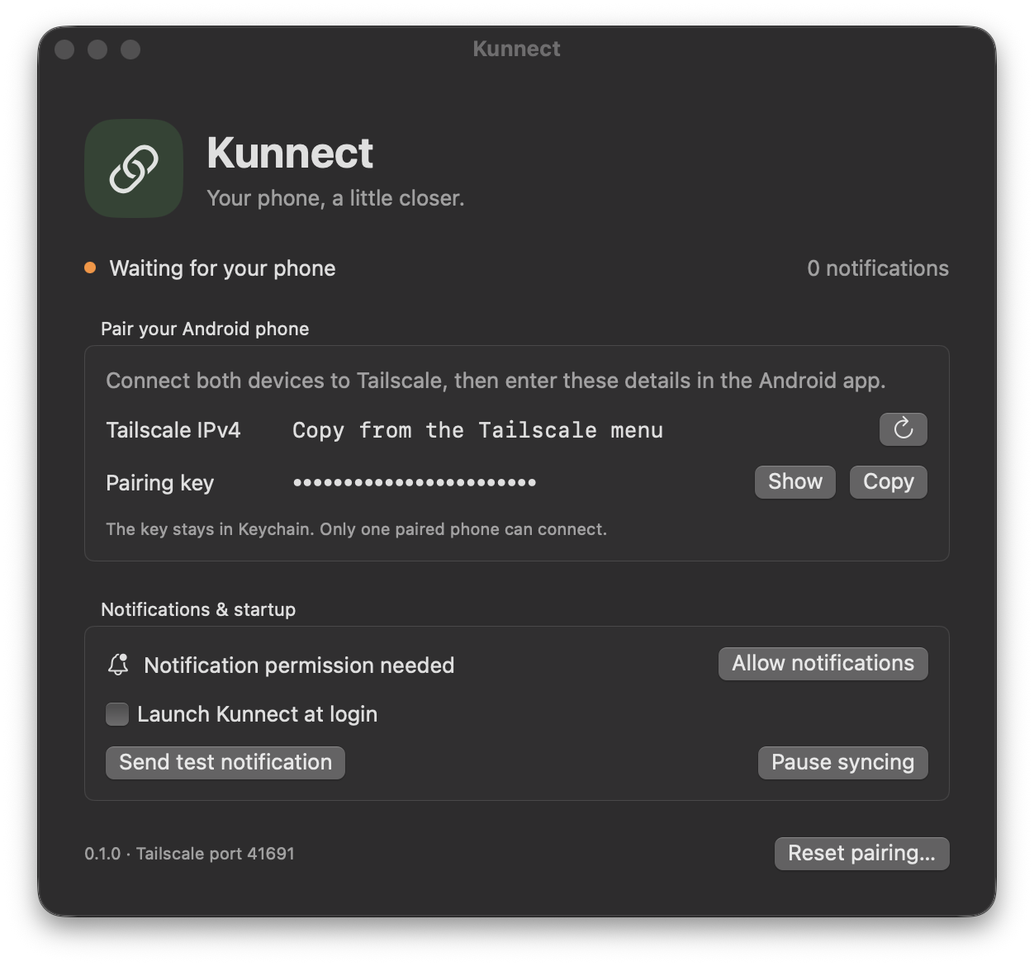
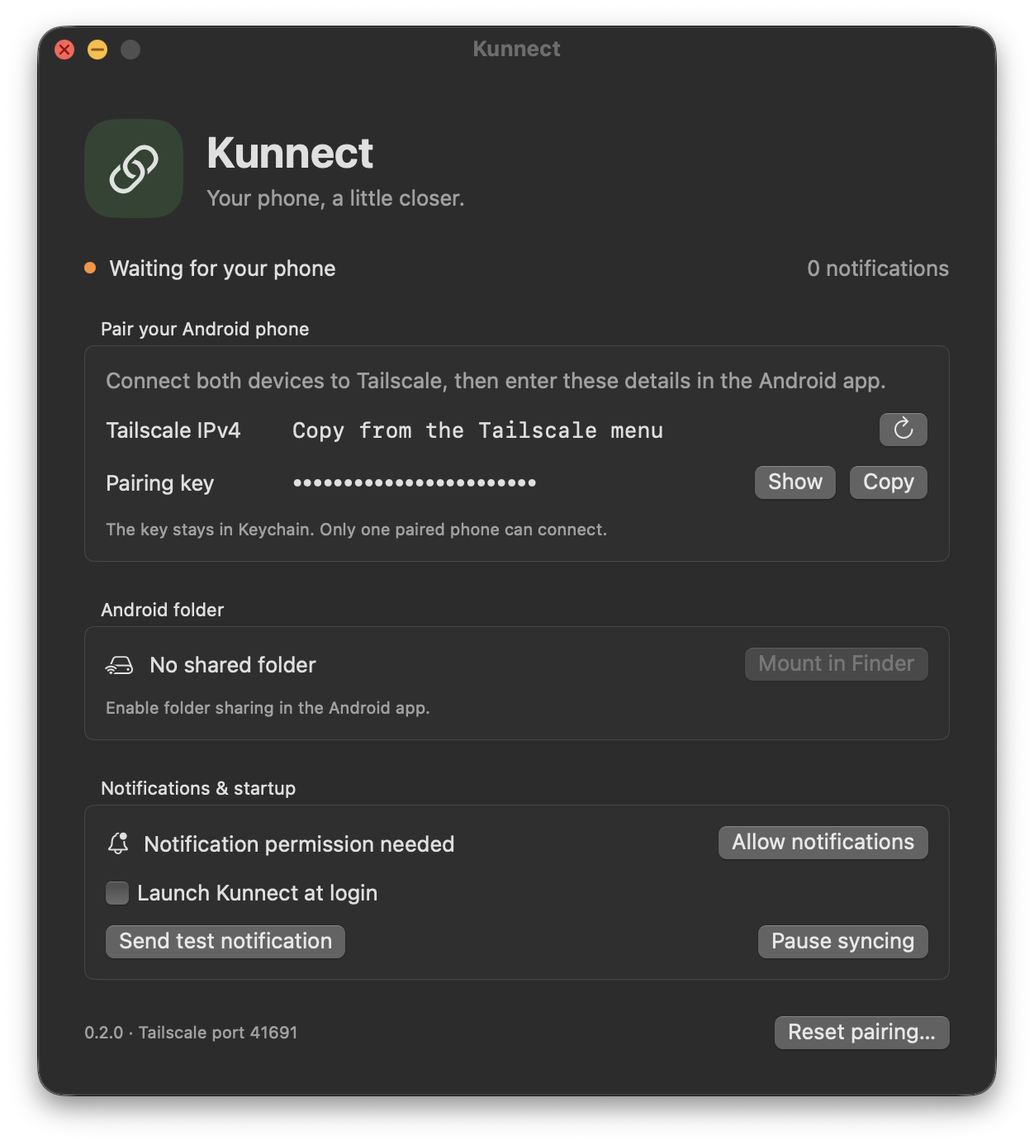
Negotiate folder support for compatible upgrades and document scoped volumes

diff --git a/android/app/src/androidTest/java/dev/kunnect/BridgeIntegrationTest.kt b/android/app/src/androidTest/java/dev/kunnect/BridgeIntegrationTest.kt
@@ -45,7 +45,8 @@ class BridgeIntegrationTest {
                 var connection = server.accept().apply { soTimeout = 15000 }
                 var reader = connection.getInputStream().bufferedReader(); var writer = connection.getOutputStream().bufferedWriter()
                 val hello = readUntil(reader, "hello"); assertEquals(key, hello.getString("token")); assertEquals(1, hello.getInt("version"))
-                send(writer, JSONObject().put("type", "ready"))
+                send(writer, JSONObject().put("type", "ready").put("features", org.json.JSONArray().put("fileShare")))
+                assertFalse(readUntil(reader, "fileShare").getBoolean("enabled"))
                 readUntil(reader, "snapshot")
                 fixture("First message")
                 var event = readUntil(reader, "delta") { it.getJSONArray("items").length() > 0 }
@@ -92,6 +93,27 @@ class BridgeIntegrationTest {
             context.stopService(Intent(context, ConnectionService::class.java)); fixture(cancel = true)
             prefs.host = oldHost; prefs.token = oldToken; prefs.enabledApps = oldApps; prefs.hideContent = false; prefs.localOnlyApps = emptySet()
         }
+    }
+    @Test fun notificationSyncStillWorksWithOlderMacHandshake() {
+        instrumentation.startActivitySync(Intent(context, MainActivity::class.java).addFlags(Intent.FLAG_ACTIVITY_NEW_TASK))
+        waitUntil { BridgeState.listener != null }
+        val prefs = Preferences(context)
+        val oldHost = prefs.host; val oldToken = prefs.token
+        prefs.host = "127.0.0.1"; prefs.token = "e".repeat(64)
+        try {
+            ServerSocket(41691, 4, java.net.InetAddress.getByName("127.0.0.1")).use { server ->
+                server.soTimeout = 15000
+                context.startForegroundService(Intent(context, ConnectionService::class.java))
+                server.accept().use { connection ->
+                    connection.soTimeout = 15000
+                    val reader = connection.getInputStream().bufferedReader()
+                    val writer = connection.getOutputStream().bufferedWriter()
+                    readUntil(reader, "hello")
+                    send(writer, JSONObject().put("type", "ready").put("version", 1))
+                    assertEquals("snapshot", JSONObject(reader.readLine()).getString("type"))
+                }
+            }
+        } finally { context.stopService(Intent(context, ConnectionService::class.java)); prefs.host = oldHost; prefs.token = oldToken }
     }
     @Test fun pairingKeyStoredEncryptedAndRoundTrips() {
         val prefs = Preferences(context); val old = prefs.token

diff --git a/android/app/src/main/java/dev/kunnect/ConnectionService.kt b/android/app/src/main/java/dev/kunnect/ConnectionService.kt
@@ -56,7 +56,10 @@ class ConnectionService : Service() {
                 connection.soTimeout = 12000
                 val ready = readFrame(input, line)
                 check(ready.optString("type") == "ready") { ready.optString("message", "Pairing failed") }
-                connection.soTimeout = 300000
+                val features = ready.optJSONArray("features")
+                val supportsFiles = features != null && (0 until features.length()).any { features.optString(it) == "fileShare" }
+                val heartbeatMillis = if (supportsFiles) 120000L else 30000L
+                connection.soTimeout = if (supportsFiles) 300000 else 75000
                 delayMs = 1000
                 BridgeState.status.value = "Connected"
                 BridgeState.changed()
@@ -66,11 +69,11 @@ class ConnectionService : Service() {
                         var lastShare = ""
                         var previous = emptyMap<String, String>()
                         while (isActive) {
-                            val changed = withTimeoutOrNull(120000) { BridgeState.changes.receive(); true } ?: false
+                            val changed = withTimeoutOrNull(heartbeatMillis) { BridgeState.changes.receive(); true } ?: false
                             if (changed) delay(150) // Fold a burst of notification updates into one batch.
                             if (BridgeState.shareDirty.getAndSet(false)) files.reconfigure()
                             val share = files.info()
-                            if (share.toString() != lastShare) { send(share); lastShare = share.toString() }
+                            if (supportsFiles && share.toString() != lastShare) { send(share); lastShare = share.toString() }
                             if (BridgeState.dirty.getAndSet(false)) {
                                 val snapshot = withContext(Dispatchers.Main) { BridgeState.listener?.snapshot() }
                                 if (snapshot != null) {

diff --git a/macos/Sources/KunnectTransport/Server.swift b/macos/Sources/KunnectTransport/Server.swift
@@ -102,7 +102,7 @@ public final class BridgeServer {
             peer.authenticated = true; peer.deviceID = id; active = peer.id
             if pairedDevice.isEmpty { pairedDevice = id; DispatchQueue.main.async { self.onPair?(id) } }
             if case .hostPort(let host, _) = peer.connection.endpoint { DispatchQueue.main.async { self.onPeer?(String(describing: host)) } }
-            peer.send(["type": "ready", "version": 1]); status("Connected · \((event["name"] as? String ?? "Android").prefix(128))")
+            peer.send(["type": "ready", "version": 1, "features": ["fileShare"]]); status("Connected · \((event["name"] as? String ?? "Android").prefix(128))")
             return true
         }
         guard active == peer.id else { return false }

diff --git a/README.md b/README.md
@@ -9,6 +9,8 @@ Your Android notifications, on your Mac. A small native companion pair using you
 - Native Android app using Jetpack Compose and Material 3 Expressive: large rounded surfaces, expressive theme and motion, wallpaper colors, light/dark appearance.
 - Native Mac menu bar companion with settings, pause/resume, launch at login, test notification, and pairing reset.
 - App allowlist, live notification updates, and removal in both directions.
+- A chosen Android folder mounted as a native WebDAV volume in Finder, read-only by default with a separate write-access switch. No FUSE driver.
+- Drag-to-Applications DMG installer and optional Android battery-optimization exemption prompt.
 - Per-app control over whether a Mac dismissal also dismisses on Android.
 - Optional hidden message content and Mac notification sound (off by default).
 - Authenticated connection to one phone; Android Keystore and macOS Keychain protect the pairing key.
@@ -16,16 +18,34 @@ Your Android notifications, on your Mac. A small native companion pair using you
 
 ## Install and pair
 
-Download `Kunnect-Android.apk` and `Kunnect-macOS-arm64.zip` from [Releases](https://github.com/BriskAM/kunnect/releases).
+Download `Kunnect-Android.apk` and `Kunnect-macOS-arm64.dmg` from [Releases](https://github.com/BriskAM/kunnect/releases).
 
 1. Install the APK on Android 9 or newer. On sideloaded apps, Android may require **App info → ⋮ → Allow restricted settings** before granting notification access.
-2. Unzip and move `Kunnect.app` to `/Applications` on an Apple Silicon Mac running macOS 13 or newer. This initial personal build is ad-hoc signed, not Apple notarized. Use macOS **Privacy & Security → Open Anyway** if Gatekeeper blocks the downloaded app.
+2. Open the DMG and drag `Kunnect.app` onto the **Applications** shortcut on an Apple Silicon Mac running macOS 13 or newer. This initial personal build is ad-hoc signed, not Apple notarized. Use macOS **Privacy & Security → Open Anyway** if Gatekeeper blocks the downloaded app.
 3. Connect both devices to the same Tailscale tailnet. Your tailnet policy must allow the phone to reach the Mac on **TCP port 41691**. No exit node or Tailscale Serve setup is required.
 4. Open Kunnect from the Mac menu bar and allow notifications. Copy the Mac's **Tailscale IPv4** (`100.64.x.x`–`100.127.x.x`) from Tailscale if it is not detected automatically, plus the pairing key from Kunnect.
 5. In Android Kunnect, enable notification access, enter those details, and select the apps you want to mirror. Tap **Start syncing** if needed.
 6. Keep Tailscale running on both devices. Kunnect uses an Android foreground service with a persistent connection notification. Start it manually after a phone reboot. A Mac asleep or offline cannot receive live notifications.
 
-The Android connection stays available with the app screen closed. Some phone manufacturers' battery restrictions and Android Doze can still delay network access. The app links to battery settings; it does not hold a wake lock or silently change battery settings.
+## Android folder as a Mac disk
+
+1. In Android Kunnect, open **Files → Choose folder**. Android grants access only to that directory and its descendants. Some storage roots and app-private locations cannot be selected.
+2. Turn on **Share with your Mac**. Keep Kunnect and Tailscale running. The phone must allow incoming Tailscale connections from your paired Mac on **TCP 41692**, in addition to phone → Mac TCP 41691 for the notification connection. If Tailscale's “shields up” mode is enabled on Android, incoming file access will be blocked.
+3. In the Mac menu bar, choose **Mount Android folder**, or use **Mount in Finder** in settings. It appears as a network volume in Finder and under `/Volumes`. Only mount when you need it; nothing is mirrored or scanned in advance.
+4. Access is **read-only by default**. To create, replace, move, or delete files, explicitly enable **Allow changes from Mac** on Android and then eject/remount the volume on Mac. Revoking write access is enforced immediately by Android, even before remounting.
+5. Eject from Kunnect or Finder when finished. **Stop sharing & forget folder** on Android stops the endpoint and releases its persisted folder grant.
+
+The endpoint is authenticated with the pairing key and restricted to the paired Mac's Tailscale IPv4 address. Tailscale supplies encryption. Files stream in 64 KiB buffers, with at most four request workers; there is no background tree traversal, sync queue, file watcher, or file-server heartbeat. macOS/Finder can issue its own metadata and preview requests while a volume is mounted, so eject it when idle if battery usage is the priority.
+
+Use a local device folder for predictable behavior. Cloud document providers can involve their own downloads and battery use. SAF is a document API, not a full POSIX filesystem: Finder extended attributes/timestamp updates and recursive server-side directory copying are not supported. Moving between directories requires provider support; renaming over an existing destination is refused rather than silently deleting it. Uploads are staged before replacing existing files. Providers do not offer a universal atomic-replace primitive, so a process/device crash during commit can leave a `.kunnect-upload-*` or `.kunnect-backup-*` recovery file. Do not use the network volume for databases, app bundles, or workloads requiring local-disk locking/atomicity.
+
+## Battery and background access
+
+The first connection offers an optional **Keep Kunnect reachable?** prompt. Choose **Keep system default** to continue without an exemption, or **Allow background access** to open Android's system consent dialog. The Settings screen shows exemption status and allows requesting it later. Kunnect never silently disables battery optimization.
+
+An exemption improves availability during idle/Doze; it **does not reduce battery consumption**. Low idle work comes from event-driven notification updates, two-minute idle heartbeats, retries backing off up to two minutes, no wake locks, and on-demand file access. Real drain also depends on Tailscale, radio conditions, notification frequency, Finder requests, and transfers; no percentage-per-hour claim has been established on a physical phone.
+
+The Android connection stays available with the app screen closed. Some phone manufacturers' battery restrictions and Android Doze can still delay network access. The exemption is optional; Kunnect does not hold a wake lock or silently change battery settings.
 
 ## Notification behavior
 
@@ -39,7 +59,7 @@ Android can redact sensitive notification content, including OTPs. Notification 
 
 ## Efficiency and security
 
-Android initiates one persistent TCP connection through Tailscale. Notification callbacks drive updates; a 150 ms debounce combines bursts, and only changed/removed records cross the connection after the initial snapshot. The idle reader blocks; the sender sends a small heartbeat every 30 seconds. Reconnection backs off from one to 30 seconds. No wake locks, HTTP polling, embedded VPN stack, or message database are used.
+Android initiates one persistent TCP connection through Tailscale. Notification callbacks drive updates; a 150 ms debounce combines bursts, and only changed/removed records cross the connection after the initial snapshot. The idle reader blocks; the sender sends a small heartbeat every two minutes. Reconnection backs off from one to 120 seconds. No wake locks, HTTP polling, embedded VPN stack, or message database are used.
 
 The wire format is newline-delimited JSON. **It relies on Tailscale for transport encryption**; it is not an additional application-layer encryption scheme. Production Android only connects to a numeric Tailscale IPv4 address. The Mac accepts tailnet IPv4 or local loopback peers, requires a random 256-bit key, and binds the first authenticated phone identity. It refuses ordinary LAN/public-IP clients. It listens on all local interfaces to work with Tailscale's macOS networking variants; source checks and pairing authentication are enforced before notification data is accepted. Restrict the port with tailnet grants/ACLs as appropriate.
 
@@ -54,7 +74,7 @@ Requirements: JDK 17, Android SDK platform 37.0/build tools 36, and Swift 5.9+ w
 ./scripts/build-macos.sh
 ```
 
-The Mac script creates an ad-hoc signed `.app` and ZIP in `output/`, targeting the build machine's architecture. The published ZIP is arm64.
+The Mac script creates an ad-hoc signed `.app`, drag-to-install DMG, and ZIP in `output/`, targeting the build machine's architecture. The published Mac artifacts are arm64. The DMG build uses a local Python virtual environment with pinned `ds-store`/`mac-alias` packages to set Finder layout without Accessibility automation.
 
 For a signed Android release:
 
@@ -74,10 +94,13 @@ Back up **both** `~/.local/share/kunnect/release.keystore` and ignored `android/
 # Start an Android emulator, then:
 ./scripts/test-android.sh
 python3 scripts/capture-android.py
+
+# On Mac, exercise a real native volume backed by the emulator:
+./scripts/test-mounted-folder.sh
 ```
 
 The `fixture` module is an isolated notification generator for emulator tests. It is not bundled in the shipped app. See [test results and limits](docs/TESTING.md) and [wire protocol](docs/PROTOCOL.md). GitHub Actions checks both platforms on every push.
 
 ## Current scope
 
-One phone and one Mac, IPv4 tailnet addressing, notification mirroring and dismissal. No SMS-history permission, reply sending, file transfer, clipboard sync, cloud relay, or account system. This is a first personal-use prerelease; real-device battery life and cross-network Tailscale behavior need a hardware acceptance pass.
+One phone and one Mac, IPv4 tailnet addressing, notification mirroring/dismissal, and one scoped folder mounted on demand. No SMS-history permission, reply sending, automatic file synchronization, clipboard sync, cloud relay, or account system. This is a first personal-use prerelease; real-device battery life and cross-network Tailscale behavior need a hardware acceptance pass.

diff --git a/docs/PROTOCOL.md b/docs/PROTOCOL.md
@@ -3,15 +3,27 @@
 TCP port 41691, UTF-8 JSON objects separated by LF. A frame is bounded to 2 MiB on Mac and 64 KiB for commands on Android. The Android snapshot builder has the same 2 MiB outbound ceiling. Invalid/oversized frames close the connection. Tailscale supplies authenticated encrypted transport; the application key adds pairing authorization.
 
 1. Android sends `hello`: `version: 1`, `token` (64 lowercase hex characters), `deviceId` (installation UUID), `name` (device model).
-2. Mac validates key and phone binding and replies `ready` with `version: 1`. One active connection is allowed. Reconnecting the same phone replaces its previous connection.
+2. Mac validates key and phone binding and replies `ready` with `version: 1` and supported `features` (including `fileShare` in 0.2.0). One active connection is allowed. Reconnecting the same phone replaces its previous connection.
 3. Android sends `snapshot` with `items`, each containing `key`, `revision`, `app`, `package`, `title`, `body`, `dismissible`, and `sound`.
 4. Notification callbacks cause `delta` with changed `items` and `removed` keys. Stable items are omitted.
 5. Mac sends `dismiss` with the notification `key` and exact `revision`. Android looks up the current notification, checks app selection, protection, local-only preferences and revision, then requests cancellation. It responds with `dismissResult`: `requested`, `gone`, `stale`, `protected`, or `unavailable`.
 6. The subsequent Android removal delta confirms actual cancellation. Mac does not manufacture a new dismissal in response to a removal.
-7. Android sends `ping` every 30 seconds when idle; Mac replies `pong`. Notification batches also send a ping. Authentication has a 12-second Android timeout and 10-second Mac timeout; idle connection timeout is 75 seconds. Android retries at 1, 2, 4, 8, 16, then 30 seconds.
+7. Android sends `ping` every 120 seconds when idle; Mac replies `pong`. Notification batches also send a ping. Authentication has a 12-second Android timeout and 10-second Mac timeout; idle connection timeout is 300 seconds. Android retries at 1, 2, 4, 8, 16, 32, 64, then 120 seconds.
 
 A revision is SHA-256 over the Android notification key, post time, title and message body. IDs are scoped to one phone. Mac Notification Center identifiers are SHA-256 of the Android key. Content/settings changes update presentation; dismissal intent is tied to the source content revision.
 
 A disconnected Mac dismissal is retained in memory for at most ten minutes and retried only against a matching snapshot item. New revisions cancel old requests. Mac process termination clears pending requests. Reconnect snapshots restore current state without sounds; notification banners remain controlled by macOS settings.
 
 `unavailable` reports a disconnected Android notification listener. It does not erase the Mac's mirror as though all source notifications were deleted. `test` is a paired-client diagnostic that asks the Mac to issue a local test notification. No general remote execution or arbitrary URL opening is supported.
+
+## Scoped folder endpoint (0.2.0)
+
+Android sends `fileShare` only when the Mac advertises that capability, after authentication and on changes, with `enabled`, `name`, and `writable`. The Mac uses the authenticated TCP peer's IPv4 address, not a client-supplied URL, to mount `http://<phone>:41692/Kunnect/` through NetFS. The username is `kunnect`; the password is the existing pairing secret. It is supplied directly to NetFS rather than embedded in a URL or process arguments. Tailscale encrypts transport. Tailnet policy must allow Mac → phone TCP 41692.
+
+The Android endpoint accepts only the paired Mac's configured IPv4 (debug builds additionally accept loopback for emulator tests), requires Basic authentication on every request, and resolves paths through the persisted SAF tree. Traversal components and encoded path separators are rejected. It is off unless the user has explicitly selected and enabled a folder and the connection foreground service is running.
+
+Read operations: `OPTIONS`, `PROPFIND` (depth 0/1 only), `HEAD`, and `GET` including single byte ranges. Write opt-in enables `PUT`, `MKCOL`, `DELETE`, `MOVE`, file `COPY`, depth-0 file `LOCK`/`UNLOCK`. Locks expire lazily after three minutes; there is no cleanup timer. Finder metadata/extended-attribute writes and recursive server-side folder copies are unsupported. MOVE never overwrites an existing destination. SAF-provider capabilities determine whether cross-directory moves succeed.
+
+Request headers are capped at 32 KiB, command lines at 8 KiB, directory listings at 10,000 entries, and uploads at 8 GiB. Up to four worker threads stream through fixed 64 KiB buffers and expire after 20 idle seconds. The acceptor blocks while idle; there are no scans or file-server heartbeats. PUT stages complete data in a sibling temporary document before a backup/rename commit; interrupted uploads preserve the previous document. SAF does not provide a universal crash-atomic replacement API.
+
+Older Mac companions without the `fileShare` capability keep receiving notification messages only, with the legacy 30-second heartbeat/75-second Android timeout. Updated pairs use the two-minute heartbeat/five-minute timeout. This allows updating either app first without breaking notification mirroring.

diff --git a/docs/RELEASE.md b/docs/RELEASE.md
@@ -1,17 +1,13 @@
-# Kunnect 0.1.0 — first personal-use prerelease
+# Kunnect 0.2.0 — Android folder volumes and DMG installer
 
-Android notification mirroring and two-way dismissal over an existing Tailscale connection, with a Material 3 Expressive Android app and a native Mac menu bar companion.
+- Open `Kunnect-macOS-arm64.dmg` and drag Kunnect to Applications. A ZIP remains available as an alternative.
+- Select a folder in Android **Files**, enable sharing, then choose **Mount Android folder** from the Mac menu bar. Finder sees a native WebDAV network volume; no FUSE driver or background mirroring.
+- Read-only by default. Enable **Allow changes from Mac** separately to create, replace, rename, move, and delete documents. Eject/remount after changing access. Android enforces revocation immediately.
+- Optional, skippable battery-optimization exemption prompt, with current status in Settings. An exemption improves availability; it does not lower power use by itself.
+- Two-minute idle heartbeats and retry backoff up to two minutes; file streaming uses fixed buffers and bounded workers, with no background folder scans or wake locks.
 
-Assets:
+Tested: Android emulator notification regression and WebDAV authentication, traversal rejection, read-only enforcement, ranged reads, staged replacement/interrupted-upload preservation, chunked uploads, moves, locks and revocation; real native macOS WebDAV mount against the emulator, read-only enforcement, writable create/read/rename/delete/file-copy, and eject; Mac sync/TCP checks; release lint; DMG mount/layout and embedded app signature.
 
-- `Kunnect-Android.apk`: signed, R8-shrunk release for Android 9+.
-- `Kunnect-macOS-arm64.zip`: ad-hoc-signed app for Apple Silicon, macOS 13+.
-- `SHA256SUMS`: asset integrity hashes.
+Install both updated apps. Existing pairing and Android settings are preserved when updating from the previous signed APK. Tailscale policy must permit phone → Mac TCP 41691 and Mac → phone TCP 41692; incoming connections must be allowed on the phone. Choose the shared folder again if Android reports its permission unavailable.
 
-Install the Mac app in `/Applications`; grant notifications on Mac and notification access on Android. Keep Tailscale connected on both devices, allow phone → Mac TCP port 41691, then pair using the Mac's Tailscale IPv4 and pairing key. See the repository README for installation and sideloading instructions.
-
-Verified: Android emulator notification lifecycle and encrypted pairing storage, update/filter/privacy/protected-notification behavior, stale-dismissal rejection, reconnect, Swift sync checks, live Mac TCP checks, lint, signed APK verification, release UI smoke checks, and Mac app launch/visual inspection.
-
-Still to validate on hardware: cellular-to-Mac Tailscale delivery, long idle battery behavior, native macOS notification close/clear/group gestures, Focus modes, and launch-at-login approval. macOS notification permission was not granted during automated testing. Dismissal does not mark a conversation as read. Some Android notification content is redacted by the OS.
-
-The Mac app is not Apple notarized. macOS may require **Privacy & Security → Open Anyway**. Android and Mac signing are independent: the APK uses a persistent local signing key; the Mac app uses an ad-hoc signature.
+Limits: SAF is not a full POSIX filesystem. Extended attributes/timestamps, recursive server-side directory COPY and destination-overwriting MOVE are unsupported; provider capabilities govern moves. Prefer local device storage. Finder previews and transfers can use battery. Physical-phone idle drain, cross-network tailnet conditions, and macOS notification dismissal gestures still need hardware acceptance. The Mac app is ad-hoc signed, not Apple notarized; downloaded builds may require **Privacy & Security → Open Anyway**.

diff --git a/docs/TESTING.md b/docs/TESTING.md
@@ -1,3 +1,17 @@
+# Validation — 0.2.0
+
+Added on 30 October 2026:
+
+- Scoped WebDAV tests against an Android DocumentsProvider protected by real URI grants: authentication; escaped names; depth limits and traversal/encoded-separator rejection; content/range reads; read-only denial; create/replace; interrupted upload preserving the original; chunked upload; directory creation; cross-directory move; lock enforcement and unlock; cross-host destination rejection; deletion and immediate write/share revocation.
+- **Actual macOS native WebDAV mounts backed by the Android emulator over an adb-forwarded socket:** read an Android document; verify a read-only mount rejects writes; eject; mount writable; create/read/rename/delete a file; copy a local Mac file through filesystem APIs; eject. This tests the shipped NetFS helper and Android server, not a mocked filesystem. `./scripts/test-mounted-folder.sh` reproduces it after the debug fixture APKs are installed.
+- Existing notification lifecycle, old-Mac handshake compatibility, encrypted pairing, Swift mirror/security and live TCP checks pass after the heartbeat change. Standard instrumentation reports five tests, including one optional mount-fixture test skipped outside its explicit run.
+- The DMG builds, mounts read-only, includes the signed app and `/Applications` shortcut, and carries Finder icon positions/window metadata. Its embedded app passes strict code-signature verification.
+- Debug/release builds and lint pass. UI checks cover the Files tab and optional battery prompt. No physical-phone battery percentage or runtime guarantee is claimed.
+
+The native mount test uses loopback forwarding for an isolated emulator and a synthetic pairing secret. Production Android does not permit that loopback exception. Hardware Tailscale/radio/battery conditions and native Mac notification gestures remain separate acceptance tests.
+
+---
+
 # Validation — 0.1.0
 
 Tested locally on 30 October 2026 with an Android 15/API 35 arm64 emulator and an Apple Silicon Mac. The Android app compiles against SDK 37.0 and targets API 35; minimum Android is API 28. The Mac app targets macOS 13+.
@@ -17,7 +31,7 @@ Tested locally on 30 October 2026 with an Android 15/API 35 arm64 emulator and a
 
 ## Efficiency evidence
 
-The implemented idle path has a blocking socket read and a coroutine waiting on a conflated change channel, with a 30-second heartbeat rather than a polling loop. Selected notification bursts are coalesced for 150 ms, unchanged records are omitted, application labels are cached, and unavailable-host retries back off to 30 seconds. Frame sizes, notification counts and body lengths are bounded. No app wake lock or disk notification queue is used. R8 removes unused Android code and resources in release builds.
+The implemented idle path has a blocking socket read and a coroutine waiting on a conflated change channel, with a 120-second heartbeat rather than a polling loop. Selected notification bursts are coalesced for 150 ms, unchanged records are omitted, application labels are cached, and unavailable-host retries back off to 120 seconds. Frame sizes, notification counts and body lengths are bounded. No app wake lock or disk notification queue is used. R8 removes unused Android code and resources in release builds.
 
 In one local idle observation after several minutes, the Mac app showed 0.0% CPU and approximately 50 MiB resident memory. This is a point observation, not a battery or performance guarantee. Emulator tests do not establish physical-phone battery drain, radio wakeups, or manufacturer background-process behavior.
 
